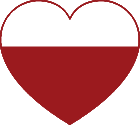
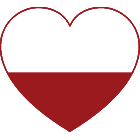
updating health bar: heart representation

Changed region(s): [[0.0, 0.0, 1.0, 1.0], [0.0571, 0.552, 0.1429, 0.672]]

diff --git a/core/src/com/gsxxx/game/Panel.java b/core/src/com/gsxxx/game/Panel.java
@@ -18,10 +18,9 @@ public class Panel extends ApplicationAdapter {
     private Texture hpImage;
     private Texture blank;
     private Sprite sprite,sprite2,sprite3,sprite4;
-    private float health = 0.2f;//1 full health, 0 dead
-    private ShapeRenderer shapeRenderer;
+    float hp;
 
-    Panel() {
+    Panel(float health) {
         batch = new SpriteBatch();
         font = new BitmapFont(Gdx.files.internal("font_01.fnt"));
         font.setColor(Color.DARK_GRAY);
@@ -29,49 +28,35 @@ public class Panel extends ApplicationAdapter {
         sprite2 = new Sprite(new Texture("hp2.png"));
         sprite3 = new Sprite(new Texture("hp3.png"));
         sprite4 = new Sprite(new Texture("hp4.png"));
-        blank = new Texture("blank.png");
-        shapeRenderer=new ShapeRenderer();
+        hp=health;
 
     }
 
     public void dispose() {
         batch.dispose();
         font.dispose();
-        //hpImage.dispose();
     }
 
     public void render() {
         batch.begin();
         font.draw(batch, "score", 50, 150);
-        font.draw(batch, "hp", 1580, 150);
+        font.draw(batch, "hp", 1600, 150);
 
-        //healthbar
-        if (health > 0.75f) {
-            sprite.setCenter(1500, 120);
+        //hp heart
+        if (hp > 0.75f) {
+            sprite.setCenter(1780, 120);
             sprite.draw(batch);
-            batch.setColor(Color.valueOf("009999"));
-        } else if (health > 0.5f) {
-            sprite2.setCenter(1500, 120);
+        } else if (hp > 0.5f) {
+            sprite2.setCenter(1780, 120);
             sprite2.draw(batch);
-            batch.setColor(Color.valueOf("00CCCC"));
-        } else if(health > 0.25f){
-            sprite3.setCenter(1500, 120);
+        } else if(hp > 0.25f){
+            sprite3.setCenter(1780, 120);
             sprite3.draw(batch);
-            batch.setColor(Color.valueOf("99FFFF"));
         }else{
-            sprite4.setCenter(1500, 120);
+            sprite4.setCenter(1780, 120);
             sprite4.draw(batch);
-            batch.setColor(Color.valueOf("99FFFF"));
         }
-
-        batch.draw(blank, 1680, 100, 200 * health, 30);
         batch.end();
-
-        shapeRenderer.setColor(Color.valueOf("009999"));
-        shapeRenderer.begin(ShapeRenderer.ShapeType.Line);
-        shapeRenderer.rect(1680, 100, 200, 30);
-        shapeRenderer.end();
-
 
     }
 }

diff --git a/core/src/com/gsxxx/game/MammothGame.java b/core/src/com/gsxxx/game/MammothGame.java
@@ -35,8 +35,7 @@ public class MammothGame extends ApplicationAdapter {
 
         background = new EndlessScrollingBackground();
         mammoth = new Mammoth();
-        panel = new Panel();
-
+        panel = new Panel(mammoth.health);
         spear = new Spear(0, 1000);
     }
 

diff --git a/core/src/com/gsxxx/game/Mammoth.java b/core/src/com/gsxxx/game/Mammoth.java
@@ -26,7 +26,7 @@ public class Mammoth {
     private int mammothImagePositionY;
     private int mammothImageWidth;
     private int mammothImageHeight;
-
+    float health=0.5f;
 
     Mammoth() {
         assert (!instantiated_);
